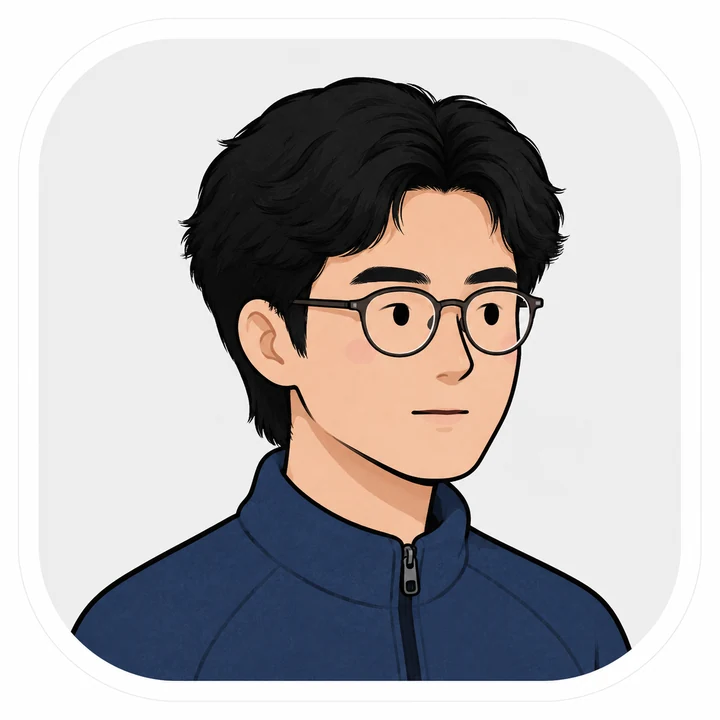
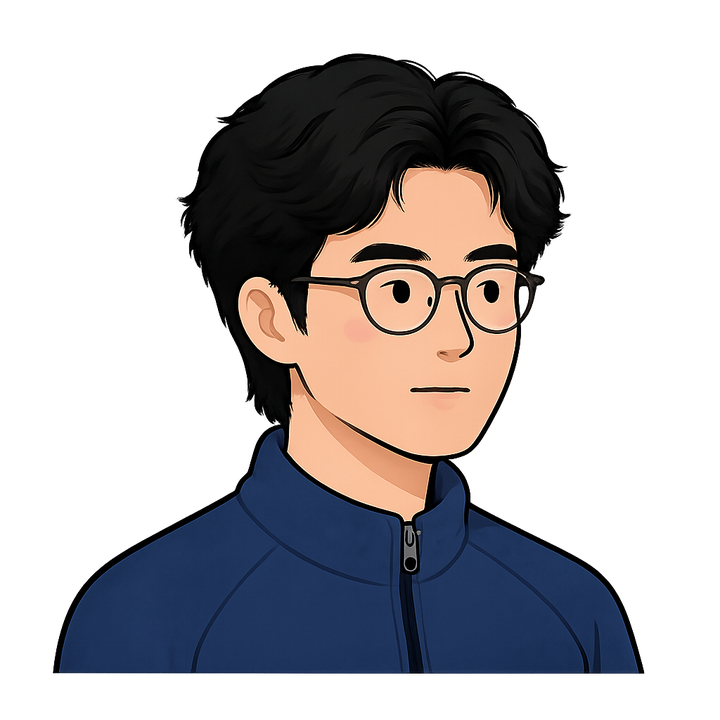
Update contact portrait alignment

diff --git a/index.html b/index.html
@@ -9,13 +9,13 @@
       content="Stelvio J — architectural photography portfolio."
     />
     <title>Stelvio J — Architecture</title>
-    <link rel="preload" href="assets/portfolio-data-v2.json?v=20260807-38" as="fetch" crossorigin="anonymous" />
-    <link rel="preload" href="assets/portfolio-preferences.json?v=20260807-38" as="fetch" crossorigin="anonymous" />
-    <link rel="preload" href="assets/about-gallery.json?v=20260807-38" as="fetch" crossorigin="anonymous" />
-    <link rel="preload" href="assets/project-essays.json?v=20260807-38" as="fetch" crossorigin="anonymous" />
-    <link rel="preload" href="assets/project-equipment.json?v=20260807-38" as="fetch" crossorigin="anonymous" />
-    <link rel="stylesheet" href="styles.css?v=20260807-38" />
-    <script src="app.js?v=20260807-38" defer></script>
+    <link rel="preload" href="assets/portfolio-data-v2.json?v=20260807-39" as="fetch" crossorigin="anonymous" />
+    <link rel="preload" href="assets/portfolio-preferences.json?v=20260807-39" as="fetch" crossorigin="anonymous" />
+    <link rel="preload" href="assets/about-gallery.json?v=20260807-39" as="fetch" crossorigin="anonymous" />
+    <link rel="preload" href="assets/project-essays.json?v=20260807-39" as="fetch" crossorigin="anonymous" />
+    <link rel="preload" href="assets/project-equipment.json?v=20260807-39" as="fetch" crossorigin="anonymous" />
+    <link rel="stylesheet" href="styles.css?v=20260807-39" />
+    <script src="app.js?v=20260807-39" defer></script>
   </head>
   <body>
     <header class="site-header" id="site-header">

diff --git a/app.js b/app.js
@@ -554,7 +554,7 @@ function renderContact() {
         </div>
       </header>
       <figure class="contact-portrait">
-        <img src="assets/contact-portrait.webp" alt="Illustrated portrait of Jiang Ruiqi" width="720" height="720" decoding="async" />
+        <img src="assets/contact-portrait.webp?v=20260807-39" alt="Illustrated portrait of Jiang Ruiqi" width="720" height="720" decoding="async" />
       </figure>
       <dl class="contact-list">
         <div>
@@ -1325,11 +1325,11 @@ window.addEventListener("keydown", (event) => {
 });
 
 Promise.all([
-  fetch("assets/portfolio-data-v2.json?v=20260807-38"),
-  fetch("assets/portfolio-preferences.json?v=20260807-38"),
-  fetch("assets/about-gallery.json?v=20260807-38"),
-  fetch("assets/project-essays.json?v=20260807-38"),
-  fetch("assets/project-equipment.json?v=20260807-38"),
+  fetch("assets/portfolio-data-v2.json?v=20260807-39"),
+  fetch("assets/portfolio-preferences.json?v=20260807-39"),
+  fetch("assets/about-gallery.json?v=20260807-39"),
+  fetch("assets/project-essays.json?v=20260807-39"),
+  fetch("assets/project-equipment.json?v=20260807-39"),
 ])
   .then(async ([dataResponse, preferencesResponse, aboutResponse, essaysResponse, equipmentResponse]) => {
     if (!dataResponse.ok) throw new Error(`Portfolio data returned ${dataResponse.status}`);

diff --git a/styles.css b/styles.css
@@ -692,6 +692,7 @@ body[data-view="contact"] #app {
   place-self: center;
   width: clamp(132px, 14vw, 220px);
   margin: 0;
+  transform: translateX(-8%);
 }
 
 .contact-portrait img {
@@ -1129,6 +1130,7 @@ body.lightbox-open { overflow: hidden !important; }
   .contact-portrait {
     width: min(38vw, 150px);
     margin: 0 auto 54px;
+    transform: none;
   }
   .contact-list { width: 100%; }
   .contact-list > div { grid-template-columns: 96px minmax(0, 1fr); gap: 12px; }
